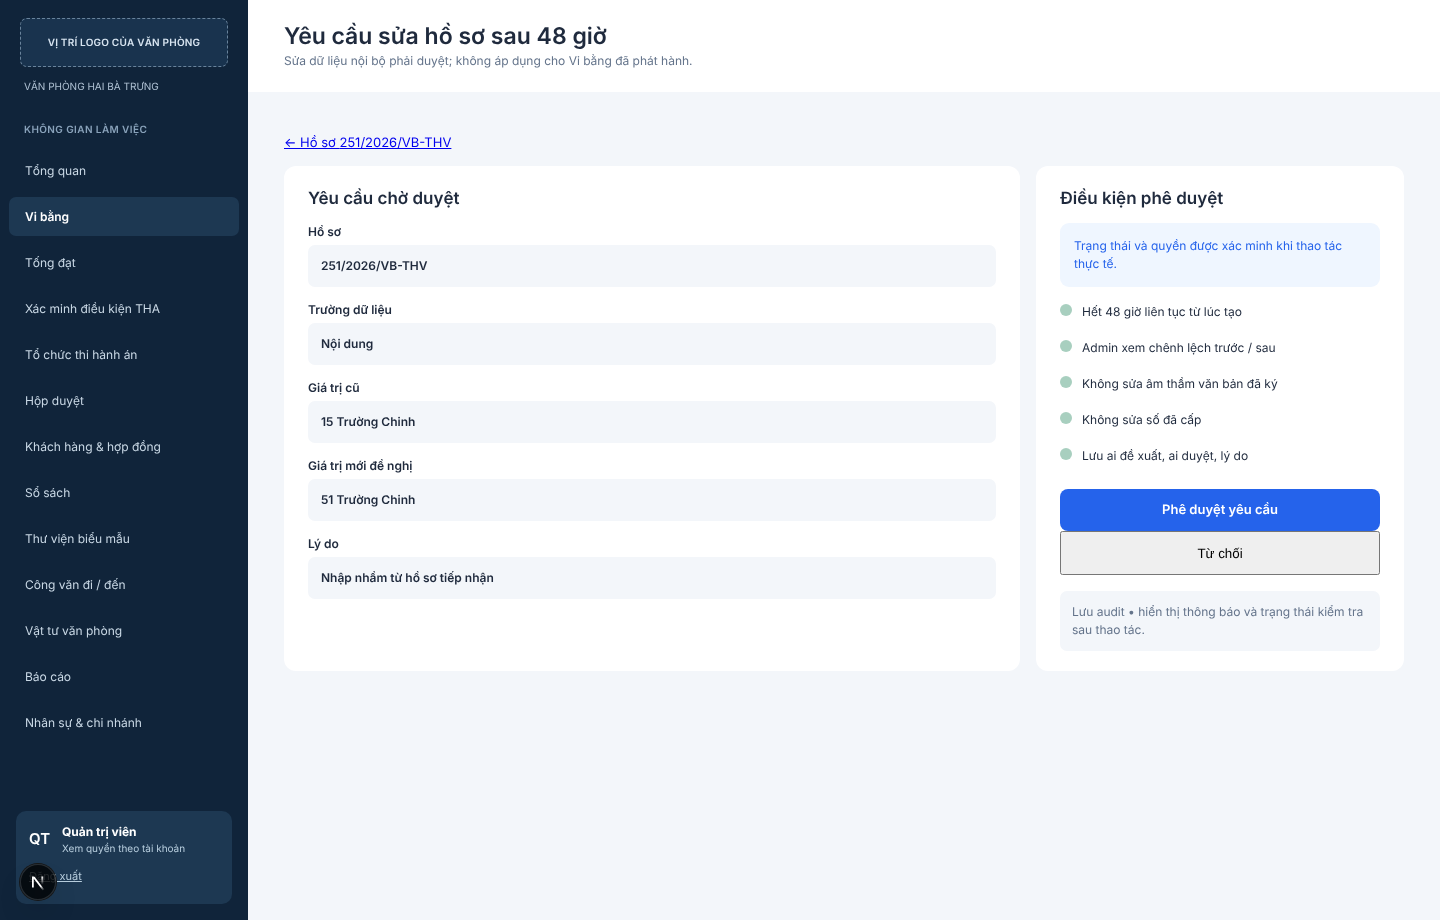
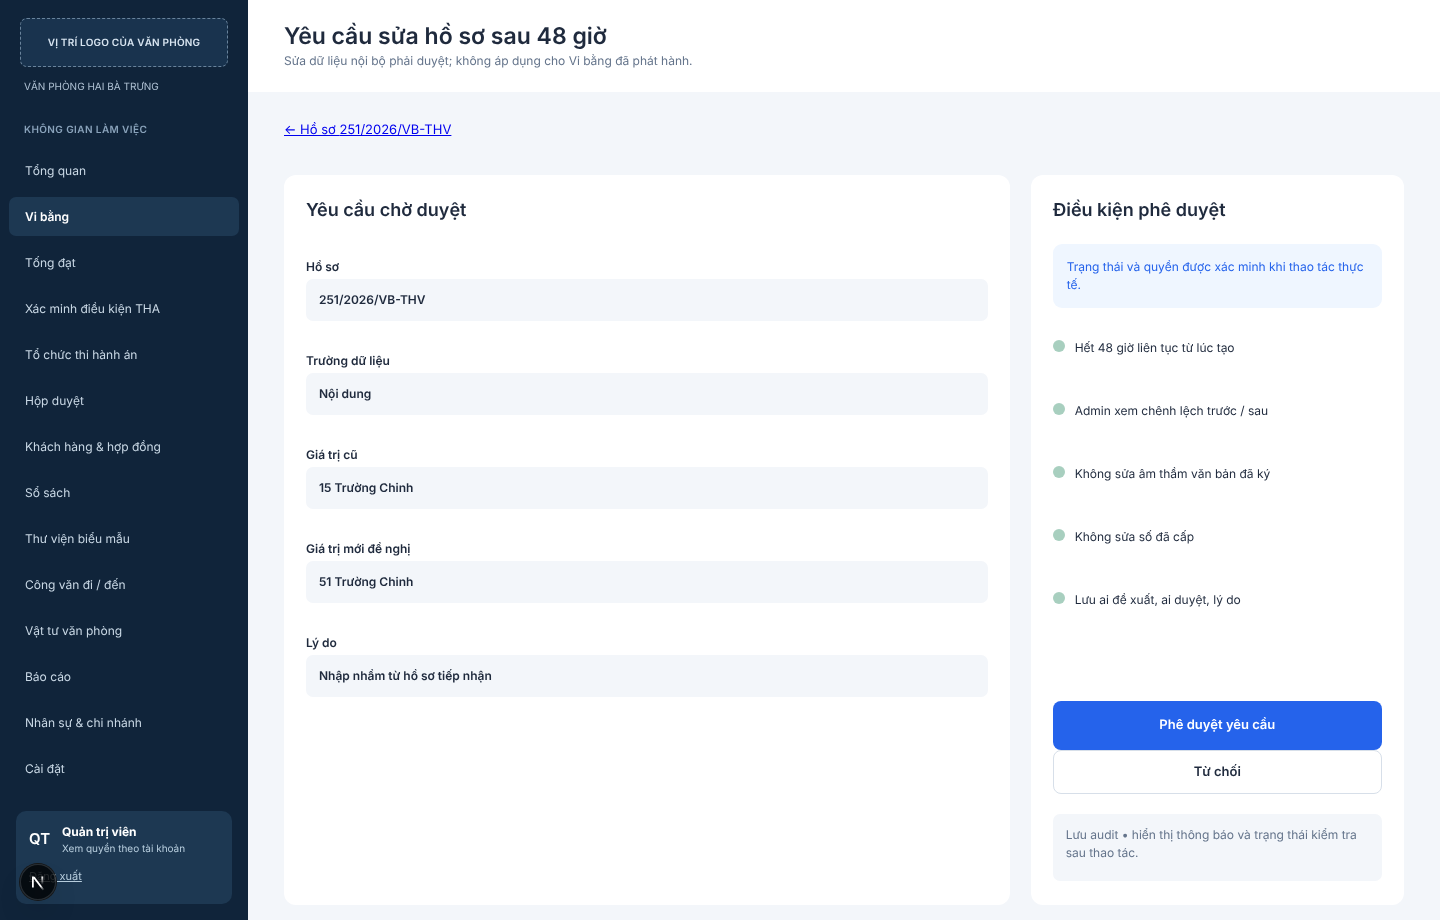
fix(web): khớp số đo Figma lô 4 (form thao tác quản trị) và kiểu nút phụ (#129)
Claude-Session: https://claude.ai/code/session_01TuayhBfCeqvzC4WVhHb6qe

diff --git a/apps/web/app/globals.css b/apps/web/app/globals.css
@@ -38,6 +38,27 @@ a,
 button {
   min-height: 44px;
 }
+/* Nút phụ chưa gắn lớp: viền nhẹ, nền trắng; nút chính dùng .primary */
+button:not([class]),
+.secondary {
+  padding: 0 18px;
+  font: inherit;
+  font-weight: 600;
+  color: var(--ink);
+  background: var(--surface);
+  border: 1px solid var(--line);
+  border-radius: var(--radius-sm);
+  cursor: pointer;
+}
+button:not([class]):hover:not(:disabled),
+.secondary:hover:not(:disabled) {
+  background: var(--bg);
+}
+button:not([class]):disabled,
+.secondary:disabled {
+  opacity: 0.6;
+  cursor: progress;
+}
 :focus-visible {
   outline: 3px solid var(--focus);
   outline-offset: 2px;
@@ -1170,4 +1191,52 @@ tr[data-selected='true'] > td {
     grid-template-columns: minmax(0, 721fr) minmax(0, 376fr);
     gap: 19px;
   }
+}
+
+/* Màn thao tác quản trị (Figma 16:2, 16:64, 16:126, 16:188): form 723 + bảng kiểm 372, cao 686 */
+@media (min-width: 900px) {
+  .assign-grid {
+    grid-template-columns: 723fr 372fr;
+    gap: 21px;
+  }
+}
+.assign-grid > .panel {
+  min-height: 686px;
+  padding: 24px 22px;
+}
+.assign-grid .form h2 {
+  margin-bottom: 35px;
+}
+.assign-grid aside h2 {
+  margin-bottom: 23px;
+}
+.assign-grid .form label {
+  margin-bottom: 29px;
+  line-height: 22px;
+}
+.assign-grid .form input,
+.assign-grid .form select {
+  min-height: 42px;
+  margin-top: 1px;
+}
+.assign-grid .notice-blue {
+  margin-bottom: 29px;
+}
+.assign-grid .check-list {
+  gap: 41px;
+  margin-bottom: 90px;
+}
+.assign-grid .check-list li {
+  line-height: 22px;
+}
+.assign-grid .primary.wide {
+  min-height: 49px;
+}
+.assign-grid .note-box {
+  min-height: 67px;
+  margin-top: 20px;
+  padding: 12px 13px;
+}
+.assign-grid > .panel > h2 {
+  line-height: 22px;
 }

diff --git a/apps/web/components/MisaRevoke.tsx b/apps/web/components/MisaRevoke.tsx
@@ -112,7 +112,7 @@ export function MisaRevoke(p: Props) {
             </button>{' '}
             <button
               type="button"
-              className="wide"
+              className="secondary wide"
               disabled={busy}
               onClick={() =>
                 void post(`cases/${p.caseId}/misa/revoke-decisions`, { accept: false })

diff --git a/apps/web/components/ChangeRequestRow.tsx b/apps/web/components/ChangeRequestRow.tsx
@@ -49,7 +49,7 @@ export function ChangeDecision({ requestId, canDecide, wide }: Props) {
       </button>{' '}
       <button
         type="button"
-        className={wide ? 'wide' : undefined}
+        className={wide ? 'secondary wide' : undefined}
         disabled={busy}
         onClick={() => void decide(false)}
       >
